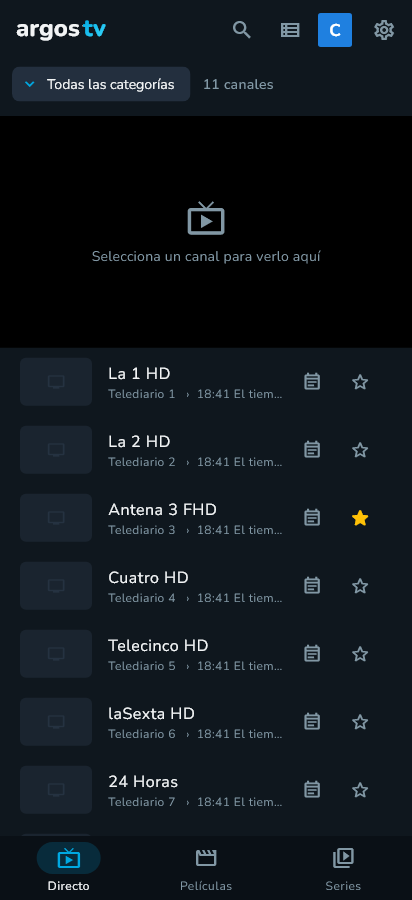
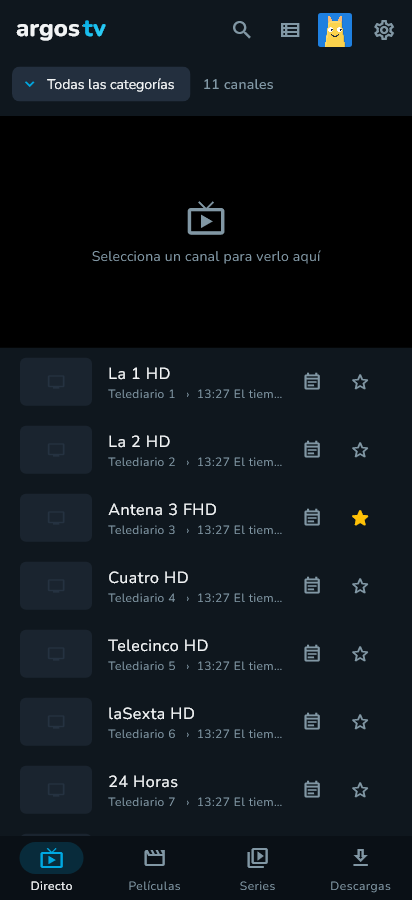
README: versión 1.2.0 con descargas y avatares; capturas nuevas

diff --git a/README.md b/README.md
@@ -38,9 +38,10 @@
 
 - 📺 **Directo** con logo, programa actual y siguiente, guía completa por canal y **vista previa** que pasa a pantalla completa sin cortes.
 - 🎬 **Películas y series** con portada por categorías, fichas, temporadas y episodios.
+- 📥 **Descargas**: guarda películas y episodios para verlos **sin conexión**, eligiendo la versión (idioma, calidad y tamaño). Si se corta, continúa donde se quedó.
 - ⏯ **Continuar viendo** y **Vistas**: retoma cada película o episodio donde lo dejaste.
 - 🔎 **Búsqueda instantánea** dentro de la categoría que estás viendo.
-- 👥 **Perfiles** con su propia lista, favoritos e historial.
+- 👥 **Perfiles** con avatar ilustrado y su propia lista, favoritos, historial y descargas.
 - 🌍 Español, català, English y français.
 - 🔒 Sin cuentas, sin anuncios y sin telemetría. Tu contraseña se guarda en el almacén seguro del sistema.
 
@@ -49,6 +50,7 @@
     <td><img src="assets/phone_01_perfiles.png" alt="Perfiles"></td>
     <td><img src="assets/phone_02b_directo_vista_previa.png" alt="Directo en el móvil"></td>
     <td><img src="assets/phone_03b_buscar.png" alt="Búsqueda"></td>
+    <td><img src="assets/phone_03d_descargas.png" alt="Descargas en el móvil"></td>
     <td><img src="assets/phone_05_sincronizando.png" alt="Primera descarga"></td>
   </tr>
 </table>
@@ -56,6 +58,17 @@
 <p align="center">
   <img src="assets/desktop_03_peliculas.png" width="860" alt="Películas">
 </p>
+
+<table>
+  <tr>
+    <td width="50%"><img src="assets/desktop_03c_ficha.png" alt="Ficha de película con Descargar"></td>
+    <td width="50%"><img src="assets/desktop_03d_descargas.png" alt="Descargas"></td>
+  </tr>
+  <tr>
+    <td width="50%"><img src="assets/desktop_01_perfiles.png" alt="Perfiles con avatares"></td>
+    <td width="50%"><img src="assets/desktop_04b_avatar.png" alt="Editor de avatar"></td>
+  </tr>
+</table>
 
 ## 📺 ¿Funciona en mi tele?
 
@@ -129,6 +142,8 @@ Cada versión, con sus cambios, está en [Releases](https://github.com/davidmarq
 
 ## 📄 Licencia
 © 2026 David Marqués Rodríguez. Todos los derechos reservados. Puedes instalar y usar las versiones publicadas aquí para uso personal y no comercial. El código fuente no es público.
+
+Los avatares de perfil son [«Critters» de DiceBear](https://www.dicebear.com/styles/critters/), con licencia [CC0 1.0](https://creativecommons.org/publicdomain/zero/1.0/) (dominio público).
 
 ## ❤ Apoya ARGOS TV
 
